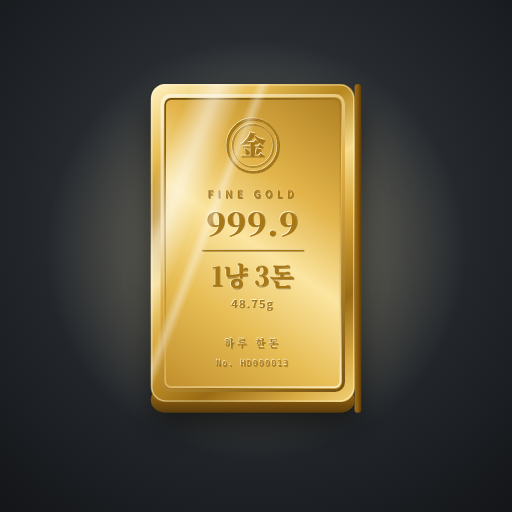
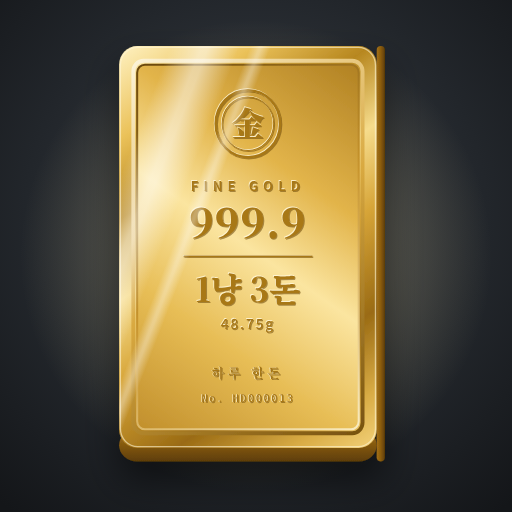
앱 아이콘의 골드바 키우기 (스토어 아이콘 1.34배, 런처 아이콘 1.18배)
Claude-Session: https://claude.ai/code/session_01516Ff5yLcuuzGr7egCHGbd

Changed region(s): [[0.2188, 0.0625, 0.75, 0.9062]]

diff --git a/store-assets/src/render.py b/store-assets/src/render.py
@@ -16,8 +16,8 @@ html,body{{margin:0;width:512px;height:512px;overflow:hidden;background:#1e2125}
 <filter id="sh" x="-30%" y="-30%" width="160%" height="160%"><feDropShadow dx="0" dy="14" stdDeviation="14" flood-color="#000" flood-opacity=".55"/></filter>
 </defs>
 <rect width="512" height="512" fill="url(#bg)"/>
-<circle cx="256" cy="250" r="210" fill="url(#halo)"/>
-<g transform="translate(150 84) scale(1.06)" filter="url(#sh)">{bar_group(yaw_deg=-16)}</g>
+<circle cx="256" cy="256" r="236" fill="url(#halo)"/>
+<g transform="translate(118 46) scale(1.34)" filter="url(#sh)">{bar_group(yaw_deg=-16)}</g>
 </svg></body></html>"""
 
 FEATURE = f"""<!doctype html><html><head><meta charset="utf-8"><style>
